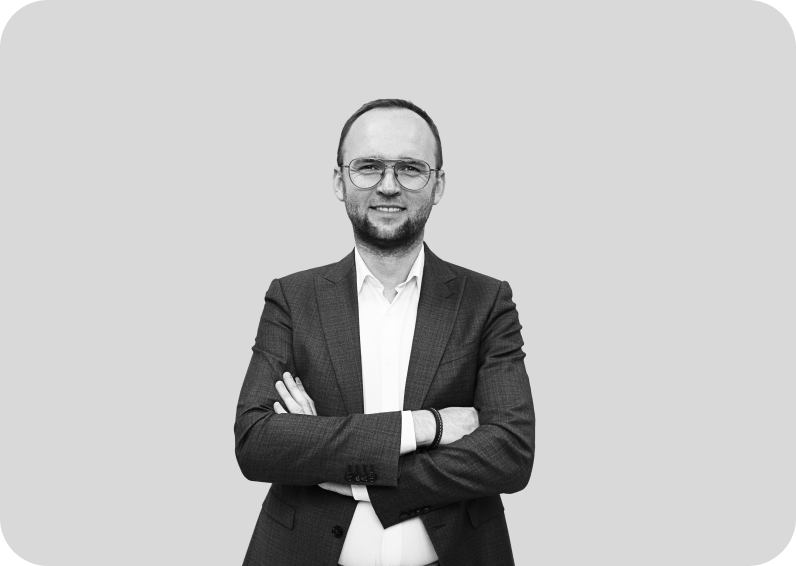
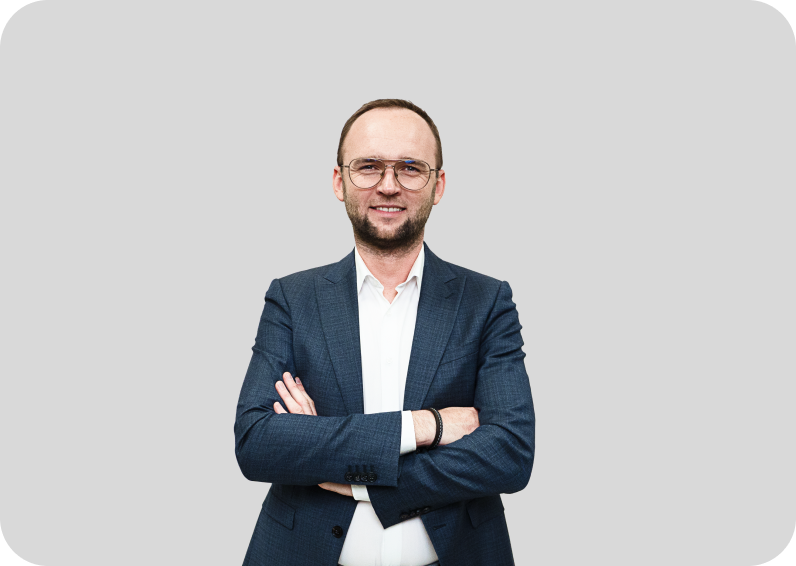
Wiosna26: kolorowe zdjęcia, przyciemnione tło hero, copy polish
- Karty prelegentów: tylko kolorowe foty (drop monochrome + hover swap)
- Dialog hero: szersza proporcja kolorowych profili (784/796×566)
- Hero: delikatny vignette overlay (góra/dół ~18% przyciemnienia)
- Master CTA: button mniejszy (h-11/h-12)
- Top nav: button "Zapisz się" wyrzucony na prawą krawędź na mobile (flex md:grid)
- Removed: "Jeden zapis · cała seria..." stopka pod hero CTA,
  "1 zapis · cała seria... · 30 sek" pod master CTA,
  long INFARMA tagline → "Certyfikacja INFARMA" tylko
- Success dialog: clickable rows do agend, kalendarz icon przywrócony

diff --git a/docs/Wiosna26/index.html b/docs/Wiosna26/index.html
@@ -118,6 +118,14 @@
           #fc3e84 100%);
       overflow: hidden;
     }
+    .hero::after {
+      content: "";
+      position: absolute;
+      inset: 0;
+      pointer-events: none;
+      background: linear-gradient(180deg, rgba(30, 25, 38, 0.18) 0%, rgba(30, 25, 38, 0.05) 40%, rgba(30, 25, 38, 0.18) 100%);
+      z-index: 1;
+    }
     .hero-spheres {
       position: absolute;
       top: 22px;
@@ -570,9 +578,6 @@
         <span>Zapisz się</span>
         <span aria-hidden="true" class="transition group-hover:translate-x-0.5">→</span>
       </a>
-      <p data-motion class="mt-3 text-sm text-white/85">
-        Jeden zapis · cała seria · certyfikat za każdą · bezpłatnie
-      </p>
     </div>
   </header>
 
@@ -597,9 +602,8 @@
           <a href="#card-dermatologia-alergologia" data-bigmarker="dermatologia-alergologia" data-dialog="dermatologia-alergologia"
              class="speaker-card group block">
             <div class="overflow-hidden rounded-3xl">
-              <img src="assets/speaker-walecka-mazurek.png"
-                   srcset="assets/speaker-walecka-mazurek.png 1x, assets/speaker-walecka-mazurek@2x.png 2x"
-                   width="286" height="321"
+              <img src="assets/speaker-walecka-mazurek-color.png"
+                   width="572" height="642"
                    alt="prof. Walecka i prof. Mazurek"
                    class="speaker-photo block h-auto w-full" />
             </div>
@@ -619,9 +623,8 @@
           <a href="#card-pediatria" data-bigmarker="pediatria" data-dialog="pediatria"
              class="speaker-card group block">
             <div class="overflow-hidden rounded-3xl">
-              <img src="assets/speaker-kuchar.png"
-                   srcset="assets/speaker-kuchar.png 1x, assets/speaker-kuchar@2x.png 2x"
-                   width="286" height="321"
+              <img src="assets/speaker-kuchar-color.png"
+                   width="572" height="642"
                    alt="prof. Ernest Kuchar"
                    class="speaker-photo block h-auto w-full" />
             </div>
@@ -640,9 +643,8 @@
           <a href="#card-medycyna-rodzinna" data-bigmarker="medycyna-rodzinna" data-dialog="medycyna-rodzinna"
              class="speaker-card group block">
             <div class="overflow-hidden rounded-3xl">
-              <img src="assets/speaker-biesiada.png"
-                   srcset="assets/speaker-biesiada.png 1x, assets/speaker-biesiada@2x.png 2x"
-                   width="286" height="321"
+              <img src="assets/speaker-biesiada-color.png"
+                   width="572" height="642"
                    alt="dr Aleksander Biesiada"
                    class="speaker-photo block h-auto w-full" />
             </div>
@@ -661,9 +663,8 @@
           <a href="#card-psychiatria-neurologia-bol" data-bigmarker="psychiatria-neurologia-bol" data-dialog="psychiatria-neurologia-bol"
              class="speaker-card group block">
             <div class="overflow-hidden rounded-3xl">
-              <img src="assets/speaker-siwek.png"
-                   srcset="assets/speaker-siwek.png 1x, assets/speaker-siwek@2x.png 2x"
-                   width="286" height="321"
+              <img src="assets/speaker-siwek-color.png"
+                   width="572" height="642"
                    alt="dr hab. Marcin Siwek, prof. UJ"
                    class="speaker-photo block h-auto w-full" />
             </div>
@@ -805,9 +806,6 @@
           <span>Zapisz się</span>
           <span aria-hidden="true" class="transition group-hover:translate-x-0.5">→</span>
         </a>
-        <p class="mt-5 text-center text-sm text-white/85">
-          1 zapis · cała seria · certyfikat za każdą · bezpłatnie · 30 sek
-        </p>
       </div>
     </div>
   </section>
@@ -946,8 +944,8 @@
 
       <div class="mt-4 flex items-center gap-3 rounded-2xl border border-zinc-200 bg-white p-3">
         <img src="assets/infarma.png" alt="INFARMA" class="h-7 w-auto shrink-0" />
-        <p class="text-xs leading-snug text-zinc-600">
-          Certyfikacja <strong class="font-semibold text-zinc-900">INFARMA</strong> — wystawiamy certyfikat za obecność ≥80% każdej konferencji.
+        <p class="text-sm font-semibold leading-snug text-zinc-900">
+          Certyfikacja INFARMA
         </p>
       </div>
 
